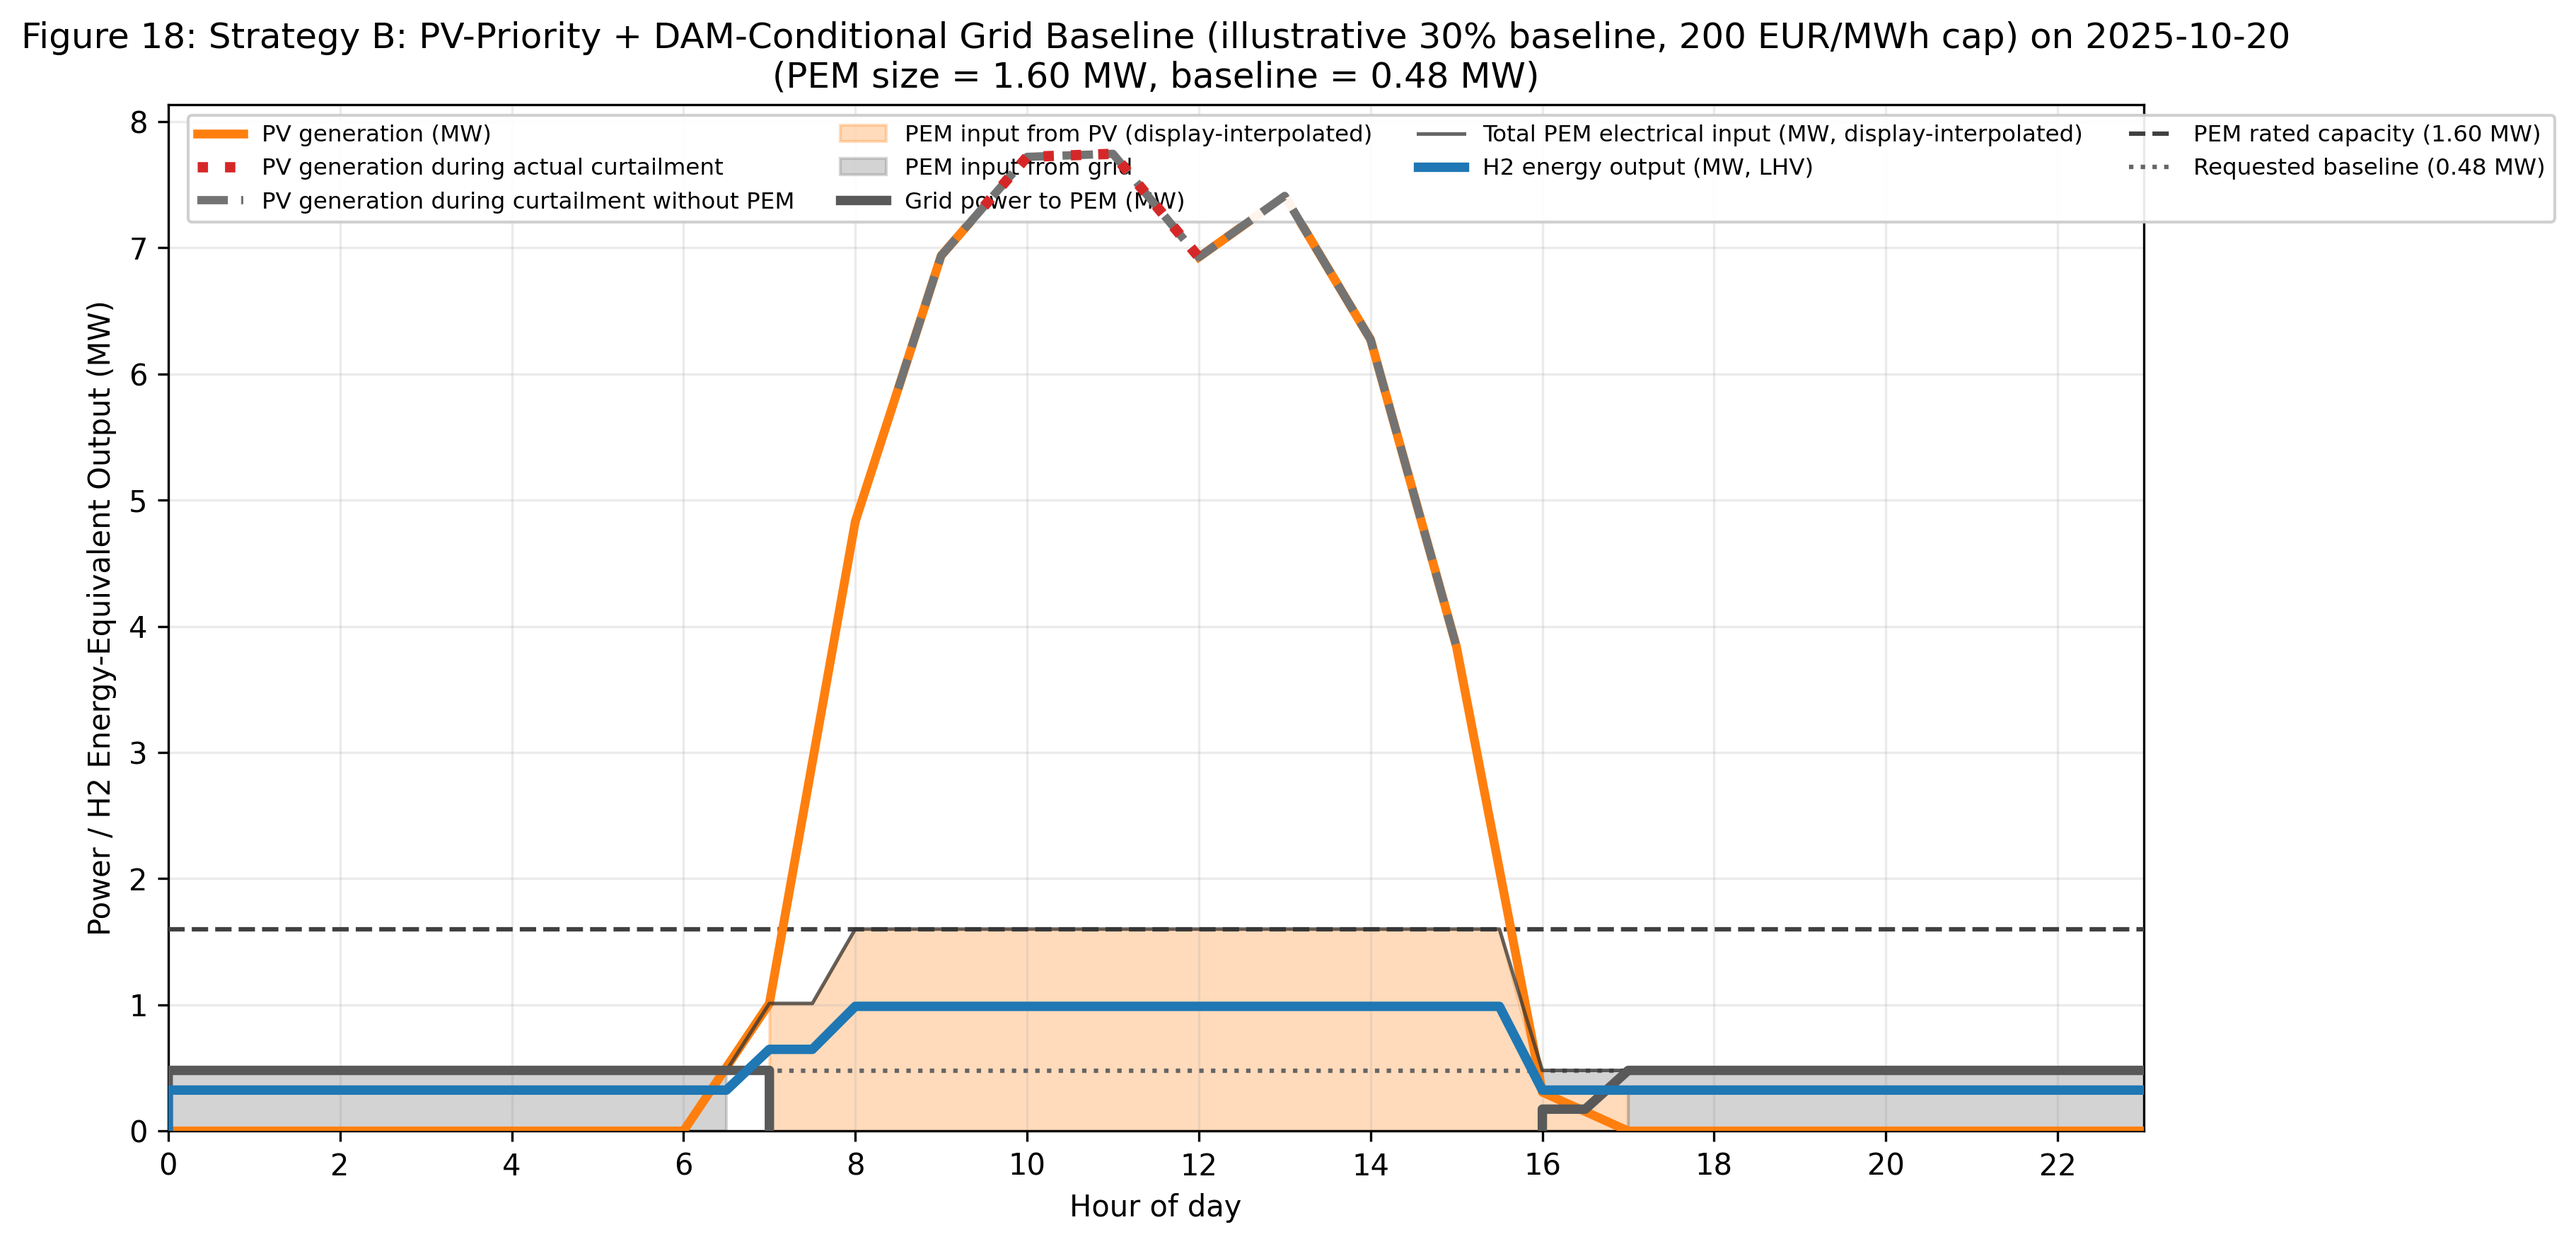
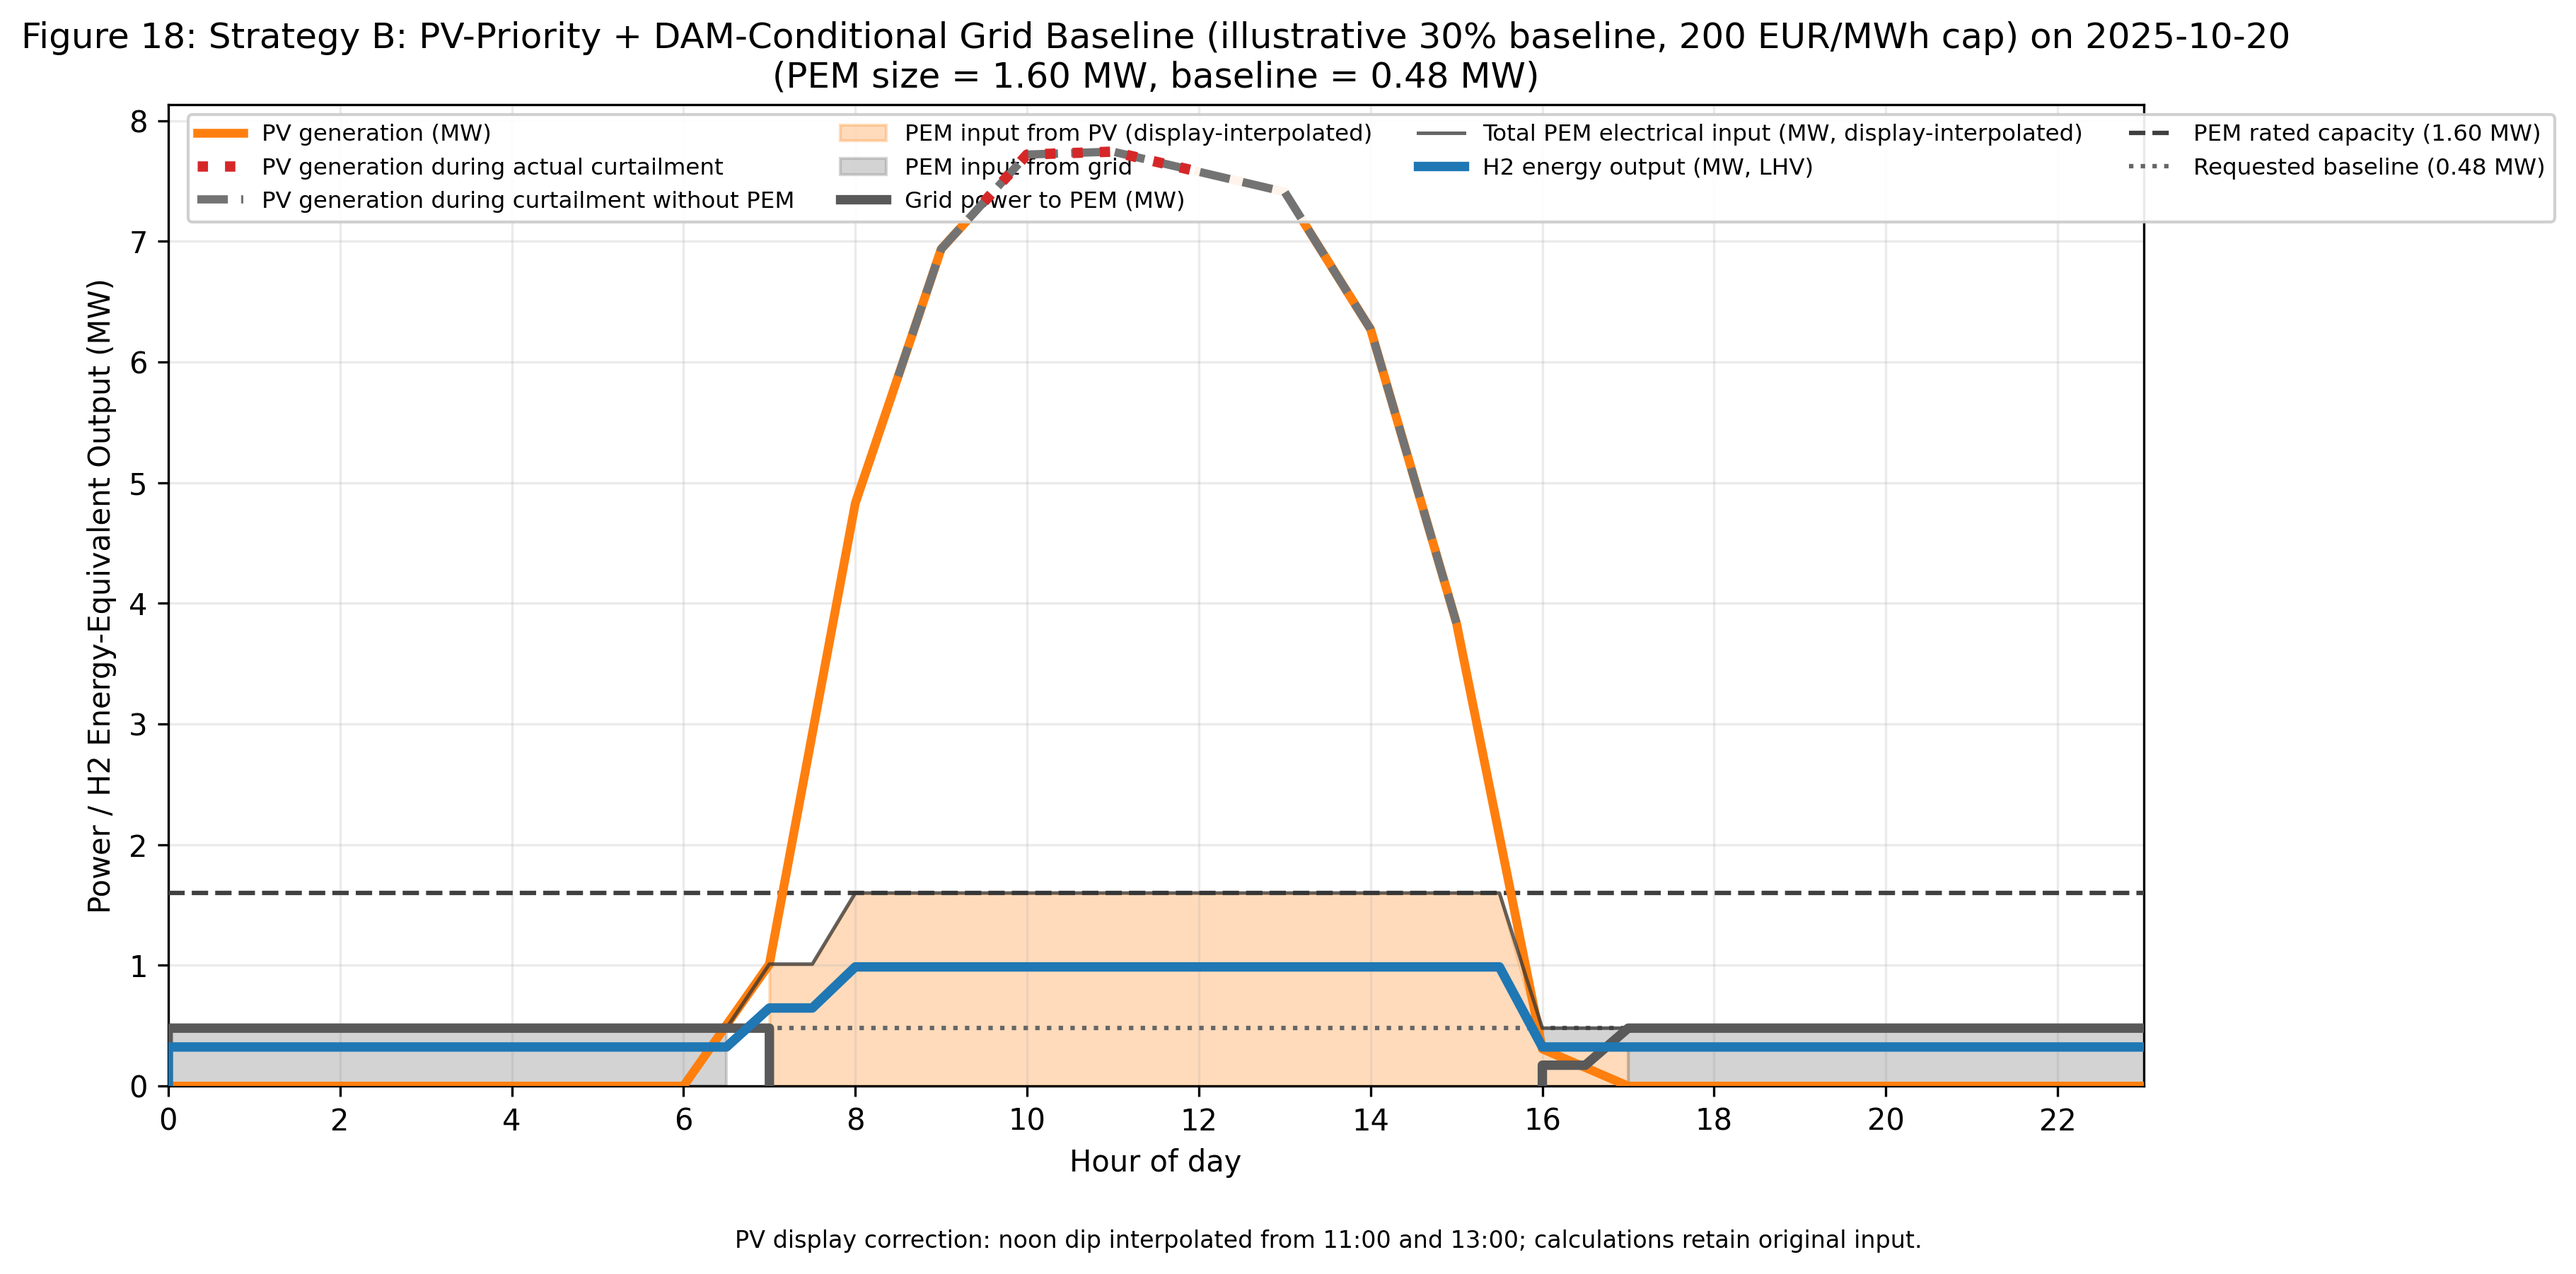
Smooth the marked noon dip in Figure 18 on the same date
Retain 2025-10-20 and interpolate the displayed noon PV value between its immediate hourly neighbours. Annotate the display correction in the figure and README.

Preserve the original source series and calculated dispatch. Full pandas 3 execution and release verification passed; all 22 generated result tables are unchanged.

diff --git a/main.py b/main.py
@@ -4012,10 +4012,36 @@ def plot_daily_dispatch(df, selected_pem_mw, selected_grid_limit_mw, date_string
     # PV trace does not imply artificial physical steps. This display-only
     # curve does not alter PEM dispatch, H2 production, energy or economics.
     pv_display_mw = pv_mw.copy()
+    pv_display_correction_note = None
     if use_dam_dispatch:
         hourly_anchor_mask = timestamps.dt.minute.to_numpy() == 0
         anchor_hours = hours[hourly_anchor_mask]
-        anchor_power = pv_mw[hourly_anchor_mask]
+        anchor_power = pv_mw[hourly_anchor_mask].copy()
+        # Explicit user-requested display correction for the same illustrative
+        # day. Keep the original time-series and dispatch calculations intact.
+        # Replace only the marked noon dip using its immediate hourly neighbours.
+        if date_string == "2025-10-20":
+            noon_indices = np.flatnonzero(np.isclose(anchor_hours, 12.0))
+            if len(noon_indices) == 1:
+                i = int(noon_indices[0])
+                if 0 < i < len(anchor_power) - 1 and anchor_power[i] < min(
+                    anchor_power[i - 1], anchor_power[i + 1]
+                ):
+                    original_noon_mw = float(anchor_power[i])
+                    anchor_power[i] = np.interp(
+                        anchor_hours[i],
+                        [anchor_hours[i - 1], anchor_hours[i + 1]],
+                        [anchor_power[i - 1], anchor_power[i + 1]],
+                    )
+                    pv_display_correction_note = (
+                        "PV display correction: noon dip interpolated from 11:00 and 13:00; "
+                        "calculations retain original input."
+                    )
+                    print(
+                        f"Figure 18 PV display correction [{date_string}, 12:00]: "
+                        f"{original_noon_mw:.3f} -> {anchor_power[i]:.3f} MW. "
+                        "Original PV input and dispatch unchanged."
+                    )
         if len(anchor_hours) >= 2:
             pv_display_mw = np.interp(hours, anchor_hours, anchor_power)
 
@@ -4196,6 +4222,9 @@ def plot_daily_dispatch(df, selected_pem_mw, selected_grid_limit_mw, date_string
         f"(PEM size = {selected_pem_mw:.2f} MW, "
         f"baseline = {baseline_w/1_000_000:.2f} MW)"
     )
+    if pv_display_correction_note:
+        fig.text(0.5, 0.005, pv_display_correction_note, ha="center", fontsize=8)
+
     ax_pv.grid(True, alpha=0.25)
 
     # One combined legend, ordered by physical meaning.
@@ -4254,7 +4283,7 @@ def plot_daily_dispatch(df, selected_pem_mw, selected_grid_limit_mw, date_string
         f"H2={h2_day_kg:.1f} kg"
     )
 
-    fig.tight_layout()
+    fig.tight_layout(rect=(0, 0.035 if pv_display_correction_note else 0, 1, 1))
     output_strategy_label = "strategy_b" if strategy == "hybrid" else "strategy_a"
     save_figure_png(fig, 
         os.path.join(FIGURES_DIR, f"figure{fig_number:02d}_{output_strategy_label}_daily_dispatch.png"),

diff --git a/README.md b/README.md
@@ -47,6 +47,11 @@ Site: 35.141 N, 33.415 E, 142 m, PVGIS-SARAH3.
 - Converted EES load fractions to floating point before percentage normalization
   to support pandas 3 without an integer-assignment error.
 
+Figure 18 retains 2025-10-20. Its marked noon PV dip is interpolated between
+11:00 and 13:00 for display only and annotated in the figure. The original
+PV input, dispatch, annual H2 and economic results are preserved. This is an
+illustration correction, not a verified source-data repair.
+
 ## Reproduction
 
 Use Python 3.10 or newer:
